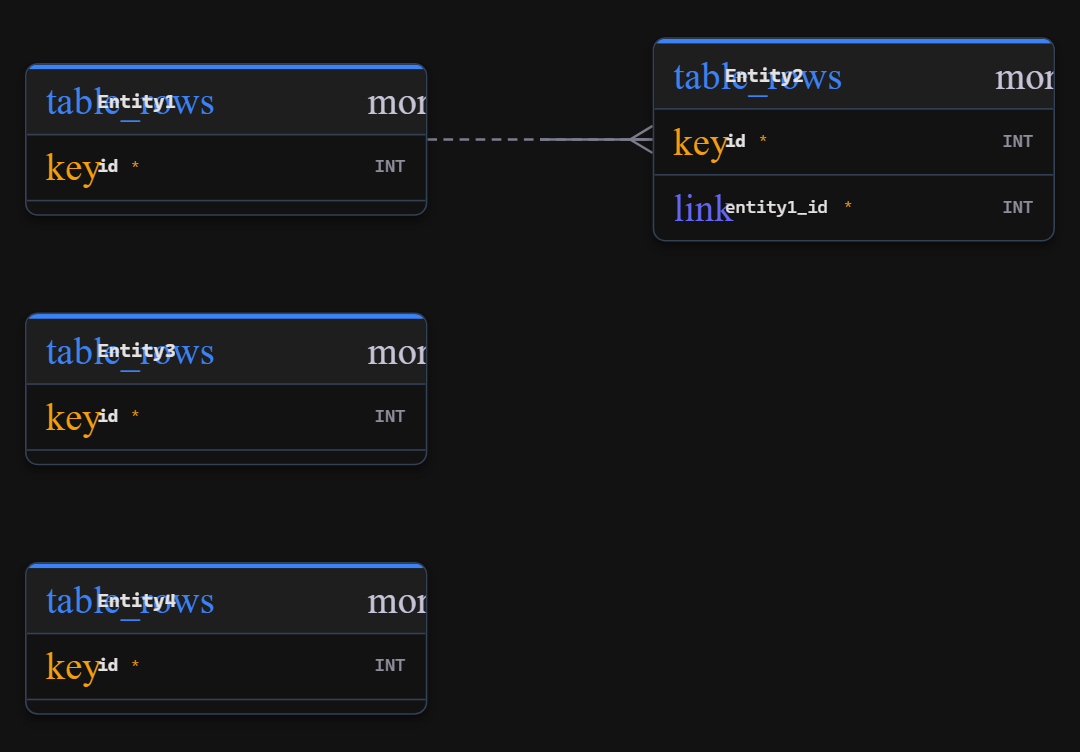
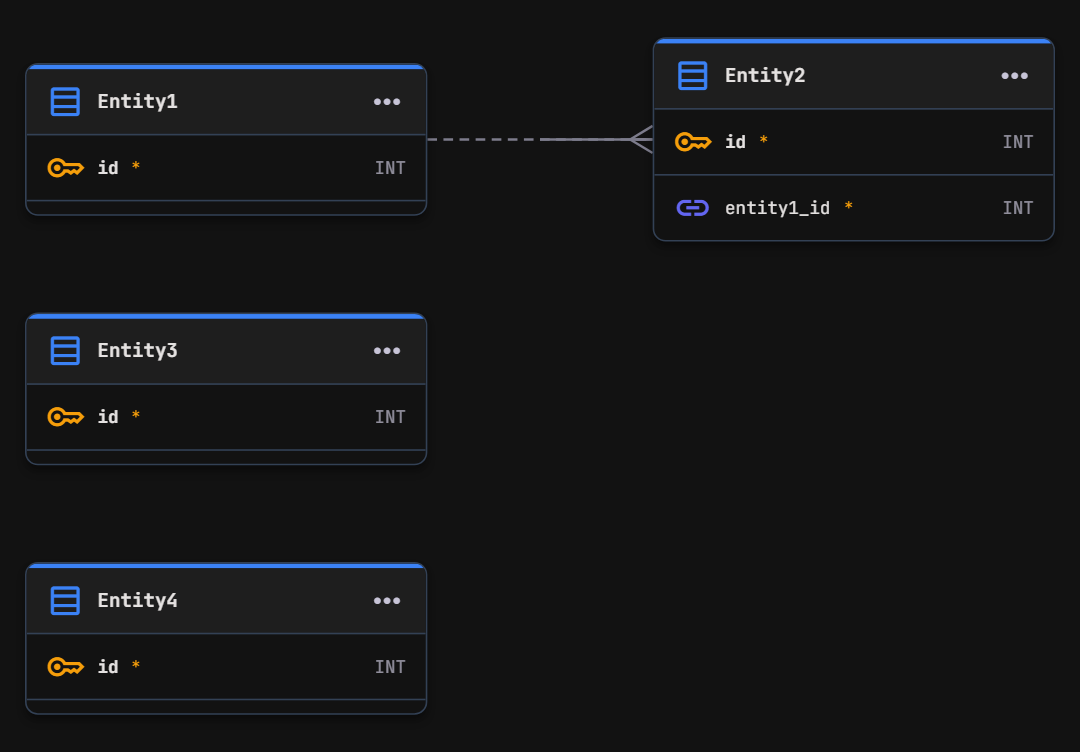
SQL DDL 내보내기 기능 추가 (MySQL)
줌 툴바에 SQL 내보내기 버튼 — 엔티티/컬럼/FK 메타를 MySQL 8.x DDL로
변환해 .sql 다운로드. 타입 매핑, 논리명→COMMENT, 복합 PK/FK 제약,
부모 우선 정렬 + FOREIGN_KEY_CHECKS 래핑.

diff --git a/erd-service/src/utils/exportSql.ts b/erd-service/src/utils/exportSql.ts
@@ -1,0 +1,131 @@
+import { Entity, Column } from '../types/erd';
+
+// MySQL DDL 생성 — 엔티티/컬럼(FK 메타 포함)을 CREATE TABLE 스크립트로 변환
+// - 타입 매핑: UUID→CHAR(36), VARCHAR/CHAR/DECIMAL/FLOAT는 size 반영, 나머지는 그대로
+// - 논리명 → COMMENT, 엔티티 설명은 테이블 COMMENT에 병기
+// - FK: refEntityId별로 묶어 복합 FOREIGN KEY 제약 생성 (참조 대상이 없으면 일반 컬럼으로만 출력)
+// - 테이블 순서: 부모 우선 토폴로지 정렬, 순환 대비 FOREIGN_KEY_CHECKS 비활성 래핑
+
+const q = (ident: string) => `\`${ident.replace(/`/g, '``')}\``;
+const comment = (text: string) => `'${text.replace(/\\/g, '\\\\').replace(/'/g, "''")}'`;
+
+function mysqlType(col: Column): string {
+  const size = col.size.trim();
+  switch (col.type) {
+    case 'UUID': return 'CHAR(36)'; // MySQL은 UUID 타입이 없음
+    case 'VARCHAR': return `VARCHAR(${size || '255'})`;
+    case 'CHAR': return `CHAR(${size || '1'})`;
+    case 'DECIMAL': return `DECIMAL(${size || '10,2'})`;
+    case 'FLOAT': return size ? `FLOAT(${size})` : 'FLOAT';
+    default: return col.type;
+  }
+}
+
+function columnLine(col: Column): string {
+  const parts = [q(col.name), mysqlType(col)];
+  if (col.isNN || col.isPK) parts.push('NOT NULL');
+  else parts.push('NULL');
+  if (col.isUnique && !col.isPK) parts.push('UNIQUE');
+  if (col.logicalName?.trim()) parts.push(`COMMENT ${comment(col.logicalName.trim())}`);
+  return parts.join(' ');
+}
+
+// 부모 우선 정렬 (Kahn) — FK 참조 기준, 순환은 원래 순서대로 뒤에 붙임
+function sortParentsFirst(entities: Entity[]): Entity[] {
+  const ids = new Set(entities.map(e => e.id));
+  const inDeg = new Map(entities.map(e => [e.id, 0]));
+  const children = new Map<string, string[]>(entities.map(e => [e.id, []]));
+  for (const e of entities) {
+    const parents = new Set(
+      e.columns.filter(c => c.isFK && c.refEntityId && ids.has(c.refEntityId) && c.refEntityId !== e.id)
+        .map(c => c.refEntityId!)
+    );
+    for (const p of parents) {
+      children.get(p)!.push(e.id);
+      inDeg.set(e.id, inDeg.get(e.id)! + 1);
+    }
+  }
+  const sorted: Entity[] = [];
+  const queue = entities.filter(e => inDeg.get(e.id) === 0);
+  const byId = new Map(entities.map(e => [e.id, e]));
+  while (queue.length) {
+    const e = queue.shift()!;
+    sorted.push(e);
+    for (const cid of children.get(e.id)!) {
+      inDeg.set(cid, inDeg.get(cid)! - 1);
+      if (inDeg.get(cid) === 0) queue.push(byId.get(cid)!);
+    }
+  }
+  // 순환 참여 테이블 — FOREIGN_KEY_CHECKS=0 래핑으로 실행은 가능
+  for (const e of entities) if (!sorted.includes(e)) sorted.push(e);
+  return sorted;
+}
+
+export function generateMySQLDDL(entities: Entity[]): string {
+  const byId = new Map(entities.map(e => [e.id, e]));
+  const usedFkNames = new Set<string>();
+  const today = new Date().toISOString().slice(0, 10);
+
+  const tables = sortParentsFirst(entities).map(entity => {
+    const lines = entity.columns.map(c => `  ${columnLine(c)}`);
+
+    const pkCols = entity.columns.filter(c => c.isPK);
+    if (pkCols.length > 0) {
+      lines.push(`  PRIMARY KEY (${pkCols.map(c => q(c.name)).join(', ')})`);
+    }
+
+    // FK 제약 — 같은 부모를 참조하는 컬럼끼리 복합 제약으로 묶음
+    const fkGroups = new Map<string, Column[]>();
+    for (const c of entity.columns) {
+      if (!c.isFK || !c.refEntityId || !byId.has(c.refEntityId)) continue;
+      const parent = byId.get(c.refEntityId)!;
+      if (!parent.columns.some(pc => pc.id === c.refColumnId)) continue; // 참조 컬럼 소실 시 제약 생략
+      const group = fkGroups.get(c.refEntityId) ?? [];
+      group.push(c);
+      fkGroups.set(c.refEntityId, group);
+    }
+    for (const [refId, cols] of fkGroups) {
+      const parent = byId.get(refId)!;
+      let name = `fk_${entity.name}_${parent.name}`;
+      for (let i = 2; usedFkNames.has(name); i++) name = `fk_${entity.name}_${parent.name}_${i}`;
+      usedFkNames.add(name);
+      const refCols = cols.map(c => parent.columns.find(pc => pc.id === c.refColumnId)!);
+      lines.push(
+        `  CONSTRAINT ${q(name)} FOREIGN KEY (${cols.map(c => q(c.name)).join(', ')})` +
+        ` REFERENCES ${q(parent.name)} (${refCols.map(c => q(c.name)).join(', ')})`
+      );
+    }
+
+    const tableComment = [entity.logicalName?.trim(), entity.description?.trim()]
+      .filter(Boolean).join(' — ');
+    const options = ['ENGINE=InnoDB', 'DEFAULT CHARSET=utf8mb4'];
+    if (tableComment) options.push(`COMMENT=${comment(tableComment)}`);
+
+    return `CREATE TABLE ${q(entity.name)} (\n${lines.join(',\n')}\n) ${options.join(' ')};`;
+  });
+
+  return [
+    `-- Generated by DataModeler Pro (${today})`,
+    '-- Target: MySQL 8.x',
+    '',
+    'SET FOREIGN_KEY_CHECKS = 0;',
+    '',
+    tables.join('\n\n'),
+    '',
+    'SET FOREIGN_KEY_CHECKS = 1;',
+    '',
+  ].join('\n');
+}
+
+// .sql 파일 다운로드
+export function exportDiagramSql(entities: Entity[]): void {
+  if (entities.length === 0) return;
+  const sql = generateMySQLDDL(entities);
+  const blob = new Blob([sql], { type: 'text/plain;charset=utf-8' });
+  const url = URL.createObjectURL(blob);
+  const a = document.createElement('a');
+  a.href = url;
+  a.download = `erd-${new Date().toISOString().slice(0, 10)}.sql`;
+  a.click();
+  URL.revokeObjectURL(url);
+}

diff --git a/erd-service/src/components/canvas/ERDCanvas.tsx b/erd-service/src/components/canvas/ERDCanvas.tsx
@@ -23,16 +23,17 @@ import RelationshipEdge from '../edges/RelationshipEdge';
 import RelTypeModal from '../panels/RelTypeModal';
 import { computeAutoLayout } from '../../utils/autoLayout';
 import { exportDiagramPng } from '../../utils/exportImage';
+import { exportDiagramSql } from '../../utils/exportSql';
 import { alertDialog } from '../../store/dialogStore';
 
 const nodeTypes = { entity: EntityNode };
 const edgeTypes = { relationship: RelationshipEdge };
 
-// 디자인 시안의 플로팅 글래스 줌 툴바 — 줌/핏 + 자동 정렬 + PNG 내보내기
+// 디자인 시안의 플로팅 글래스 줌 툴바 — 줌/핏 + 자동 정렬 + PNG/SQL 내보내기
 function ZoomToolbar() {
   const { zoomIn, zoomOut, fitView, getNodes } = useReactFlow();
   const { zoom } = useViewport();
-  const { relationships, setAllPositions } = useERDStore();
+  const { entities, relationships, setAllPositions } = useERDStore();
 
   const handleAutoLayout = () => {
     const nodes = getNodes();
@@ -47,6 +48,14 @@ function ZoomToolbar() {
       await exportDiagramPng(getNodes());
     } catch (err) {
       alertDialog((err as Error).message, 'PNG 내보내기 실패');
+    }
+  };
+
+  const handleExportSql = () => {
+    try {
+      exportDiagramSql(entities);
+    } catch (err) {
+      alertDialog((err as Error).message, 'SQL 내보내기 실패');
     }
   };
 
@@ -74,6 +83,9 @@ function ZoomToolbar() {
         </button>
         <button className={btn} title="PNG 내보내기" onClick={handleExportPng}>
           <span className="material-symbols-outlined text-[18px]">photo_camera</span>
+        </button>
+        <button className={btn} title="SQL 내보내기 (MySQL)" onClick={handleExportSql}>
+          <span className="material-symbols-outlined text-[18px]">database</span>
         </button>
       </div>
     </Panel>

diff --git a/CLAUDE.md b/CLAUDE.md
@@ -24,4 +24,5 @@
 | 2026-06-07 | 비식별 관계도 FK 생성 (식별자 미포함) | 프론트엔드 | 표준 ERD 의미론 정정 — 모든 관계 타입에서 FK 자동 생성하되 플래그 차등: 식별=PK 포함+NN, 비식별=PK 미포함+NN, 선택=PK 미포함+NULL 허용. 타입 변경 시 FK 제거/재생성 대신 플래그만 전환(컬럼명 수정 보존, FK 없는 기존 데이터는 생성), 관계 삭제 시 모든 타입에서 자동 FK 제거. `erdStore.ts`(fkFlagsFor 신설, buildFKColumns 파라미터화)·`RelTypeModal.tsx`(설명 문구) 수정, verify_features 기대값 갱신 14항목 PASS·verify_fk_cleanup 13항목으로 확장 PASS, 회귀(verify_logical·verify_backend) PASS. ※ verify_fanout도 barker처럼 개편 이전 버튼 텍스트를 쓰는 구버전임을 확인(BASE_URL 지원만 추가) |
 | 2026-06-07 | 엔티티/관계 삭제 시 잔존 FK 정리 | 프론트엔드 | 상위 엔티티 삭제 후 하위 엔티티에 자동 생성 FK 컬럼이 남는 버그 수정 — `deleteEntity`가 삭제 대상을 참조(refEntityId)하는 FK 컬럼을 함께 제거, 같은 규칙으로 `deleteRelationship`도 식별 관계 삭제 시 FK 제거(타입 변경 식별→비식별과 동일 동작). 둘 다 Undo로 복원 가능 (`erdStore.ts` 수정, `verify_fk_cleanup.mjs` e2e 11항목 PASS, 회귀 verify_features·verify_backend PASS) |
 | 2026-06-07 | 네이티브 다이얼로그 → 커스텀 모달 교체 | 프론트엔드 | window.confirm/prompt/alert 전부를 디자인 시스템 모달로 교체 — `dialogStore.ts`(Promise 기반 alert/confirm/prompt)·`DialogModal.tsx`(danger 변형, Enter/Esc, 빈 입력 방지) 신규. 다이어그램 저장 이름 입력·이름 변경·삭제 확인·전환/로그아웃 시 미저장 경고·불러오기/PNG/저장 실패 알림에 적용, 확인창 없던 엔티티 삭제에도 확인 모달 추가. `verify_backend.mjs` 24항목으로 확장 PASS, 회귀(verify_features 14항목) PASS. ※ verify_barker는 디자인 개편 이전 버튼 텍스트를 쓰는 구버전이라 개편 시점부터 동작 불가(이번 변경과 무관) |
+| 2026-06-07 | SQL DDL 내보내기 (MySQL) | 프론트엔드 | 줌 툴바에 SQL 내보내기 버튼 추가 — 엔티티/컬럼/FK 메타를 MySQL 8.x DDL로 변환해 `.sql` 다운로드. 타입 매핑(UUID→CHAR(36), VARCHAR/CHAR/DECIMAL/FLOAT size 반영), 논리명·설명→COMMENT, PK/UNIQUE/NOT NULL, refEntityId별 복합 FK 제약(참조 소실 시 제약 생략), 부모 우선 토폴로지 정렬 + FOREIGN_KEY_CHECKS 래핑(순환 대비). `utils/exportSql.ts` 신규, `ERDCanvas.tsx` ZoomToolbar 수정, `verify_sql_export.mjs` e2e 14항목 PASS, 회귀(verify_features 14항목) PASS |
 | 2026-06-07 | 로그인 + 다이어그램 DB 저장 백엔드 | 백엔드+프론트엔드 | 아이디/비밀번호 가입·로그인(JWT httpOnly 쿠키, scrypt 해싱)과 사용자별 다이어그램 DB 저장(PostgreSQL JSONB, DATABASE_URL 미설정 시 pg-mem 폴백) 추가 — `server/db.js`·`auth-routes.js`·`diagram-routes.js` 신규, `src/api/client.ts`·`authStore.ts`·`diagramStore.ts`(dirty 추적)·`AuthModal.tsx`·`utils/erdData.ts` 신규, Toolbar(DB 저장 버튼·아바타 로그인/로그아웃)·Sidebar(내 다이어그램 목록: 전환/이름변경/삭제)·vite proxy 수정. 비로그인 사용·PNG 내보내기·JSON 파일 Save/불러오기는 기존 그대로 유지. `verify_backend.mjs` e2e 19항목 PASS, 회귀(verify_server·verify_gnb_cleanup·verify_features 14항목) PASS |
